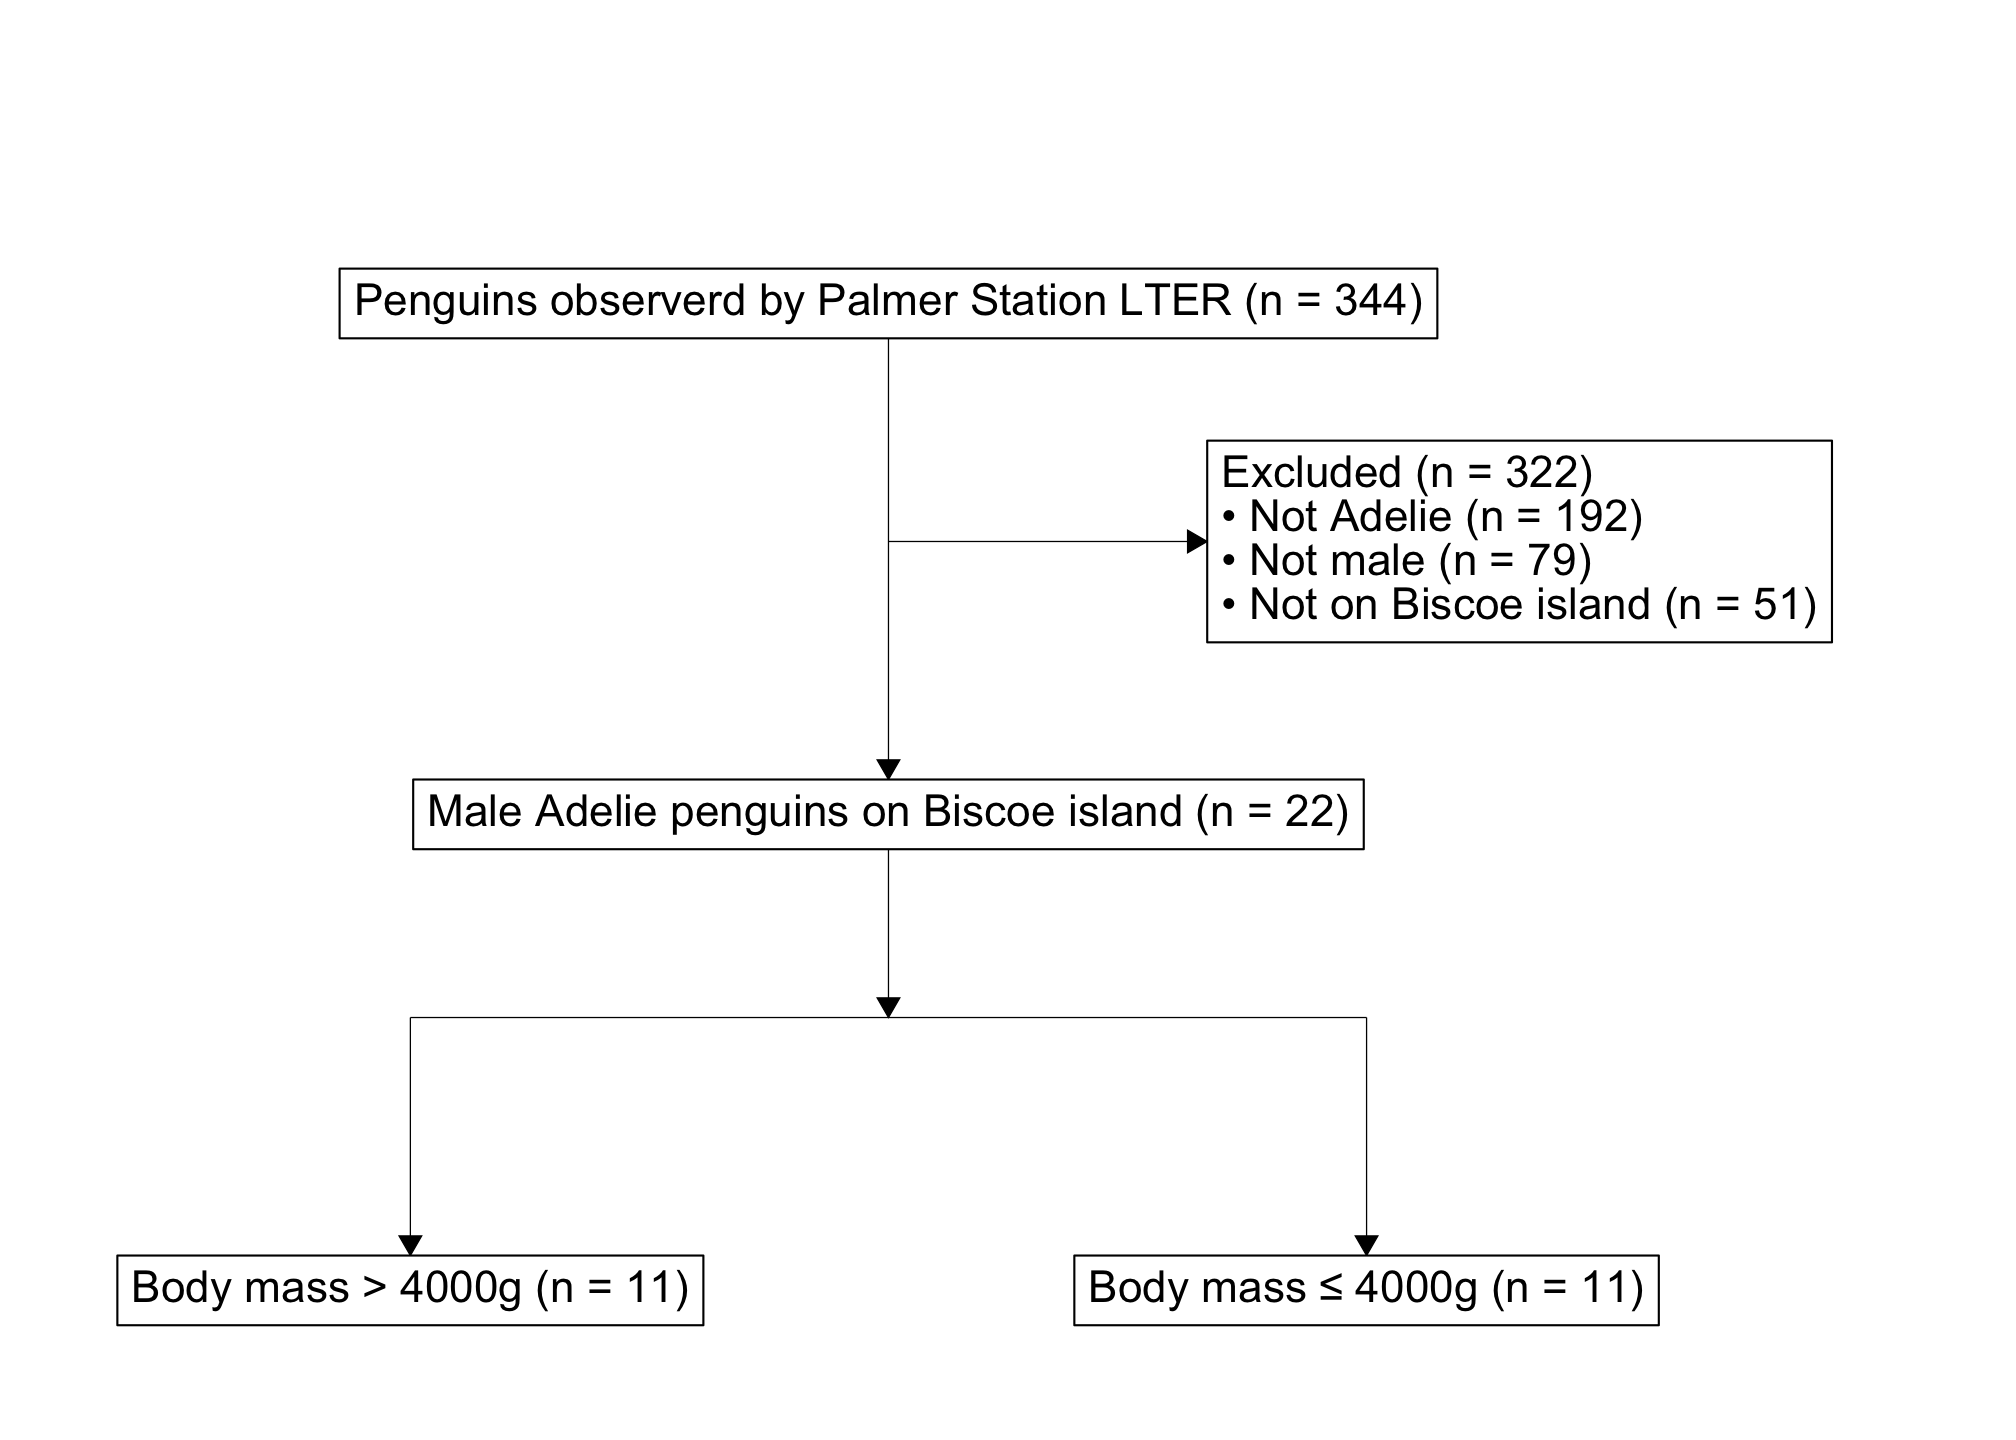
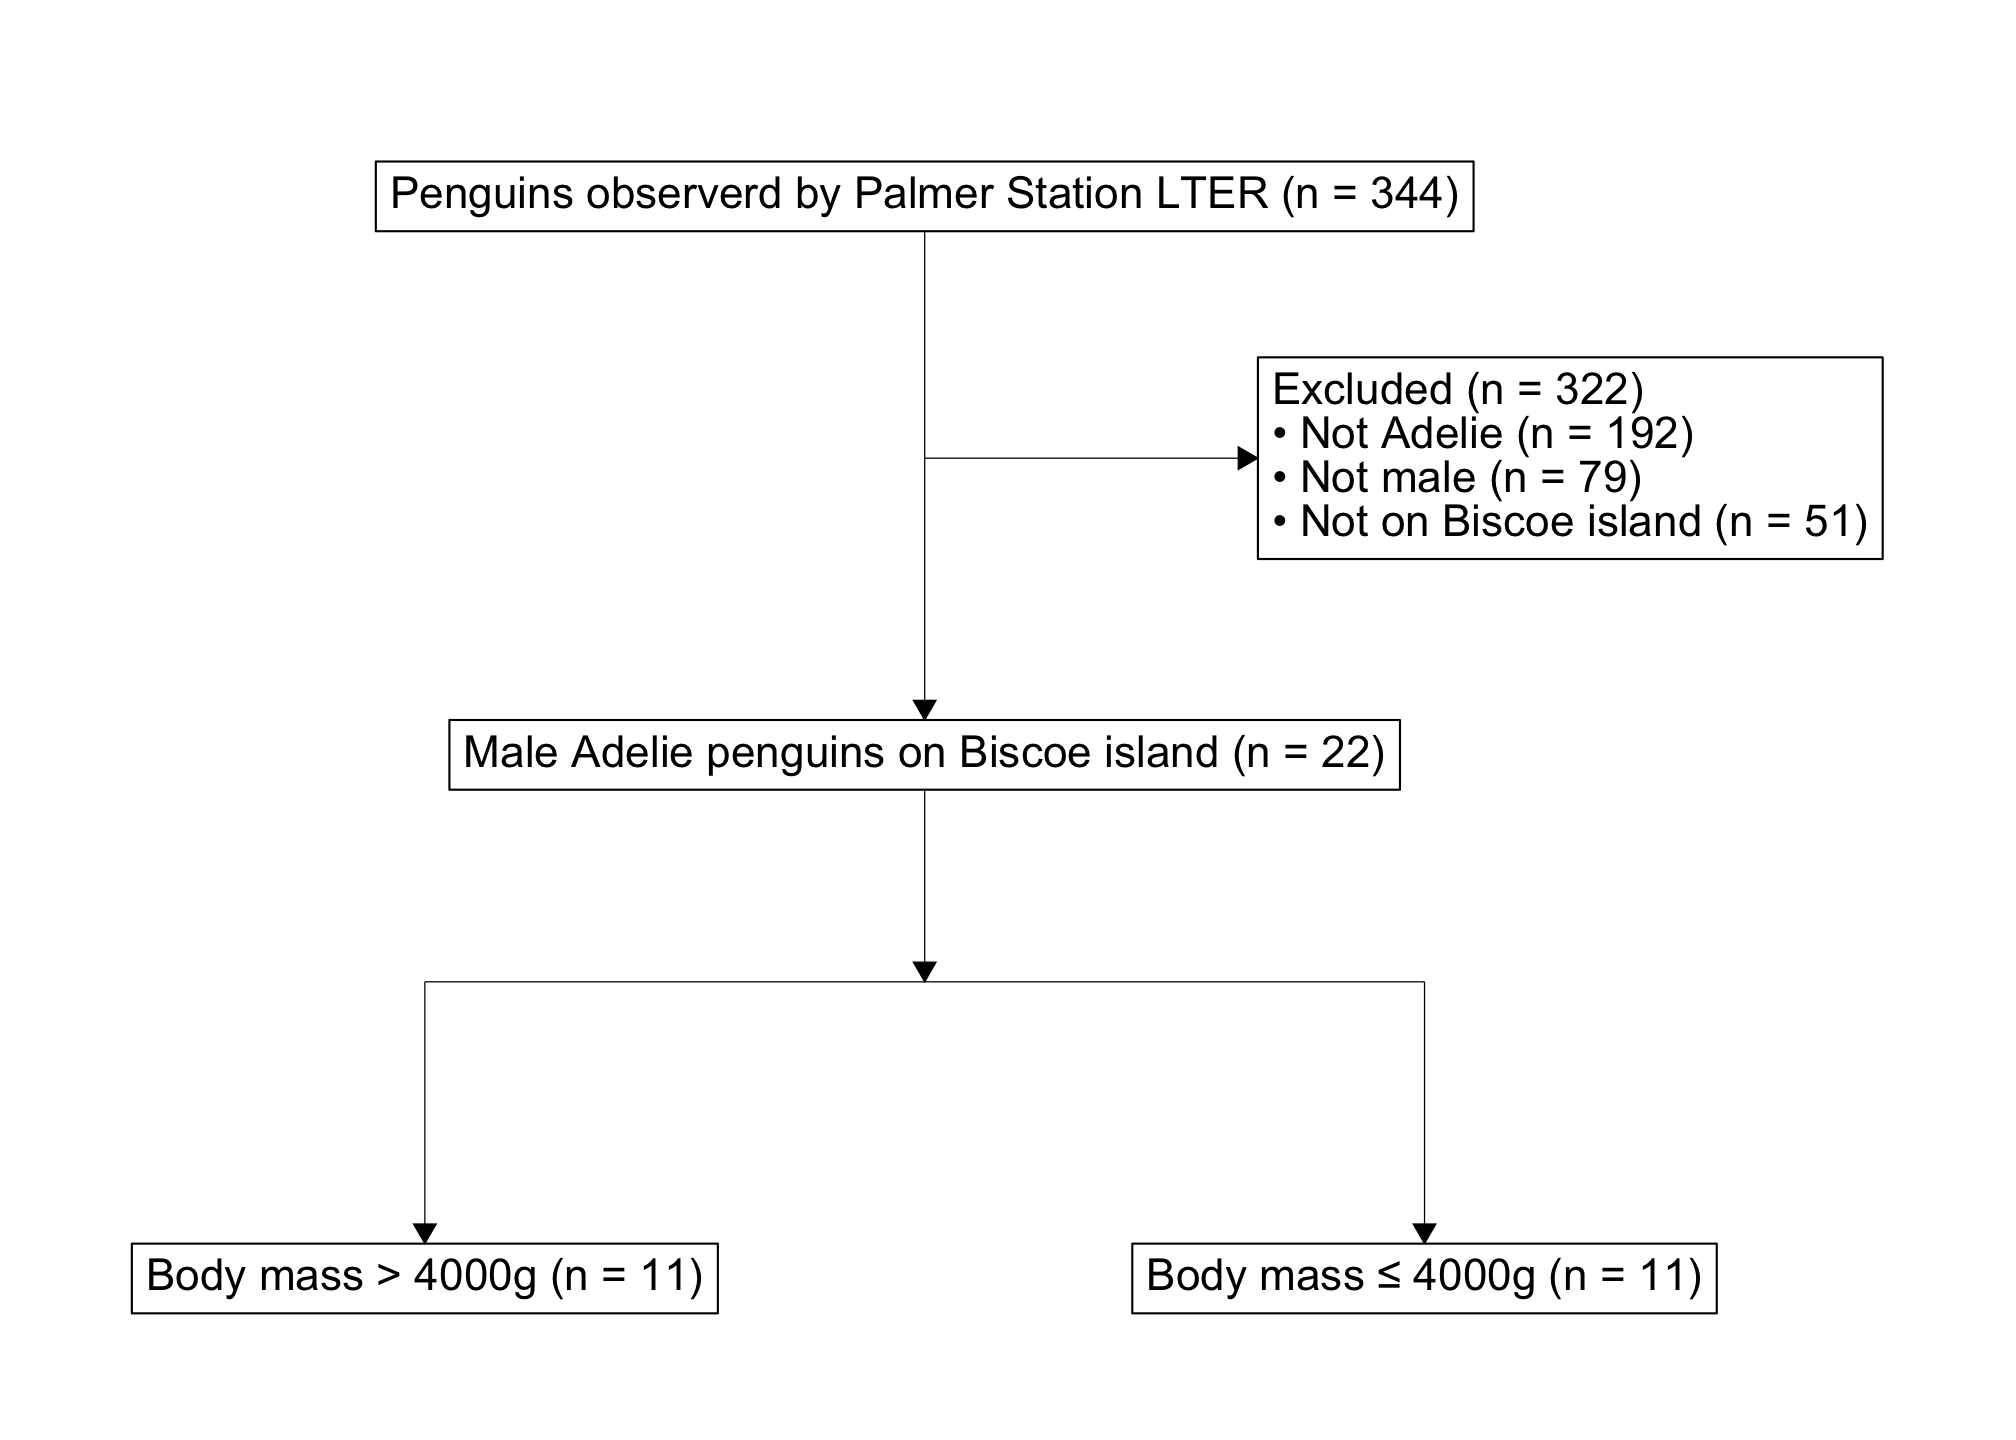
fix ggplot method

diff --git a/README.md b/README.md
@@ -141,12 +141,10 @@ penguin_cohorts <- penguin_cohorts %>%
     end = "low_bm", end_side = "top", start_x = 30, start_y = 20
   )
 
-create_consort_data(penguin_cohorts) %>%
+penguin_cohorts %>%
   ggplot() + 
-  geom_consort() + 
-  xlim(-50, 65) + 
-  ylim(5, 60) + 
-  theme_void()
+  xlim(-50, 60) + 
+  ylim(5, 55) 
 ```
 
 <img src="man/figures/README-example-consort-1.png" width="100%" />
